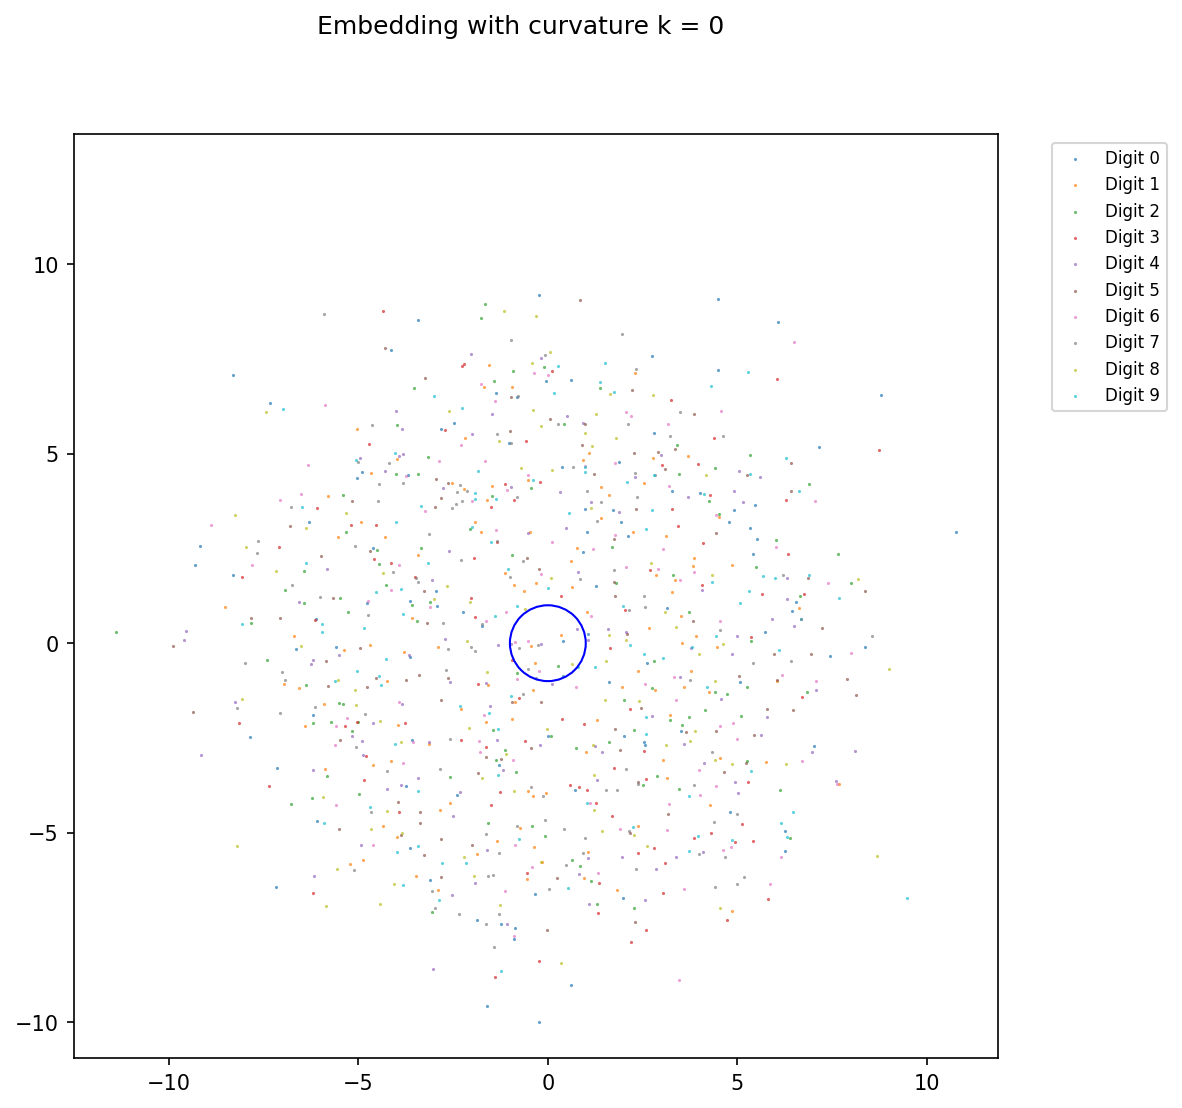
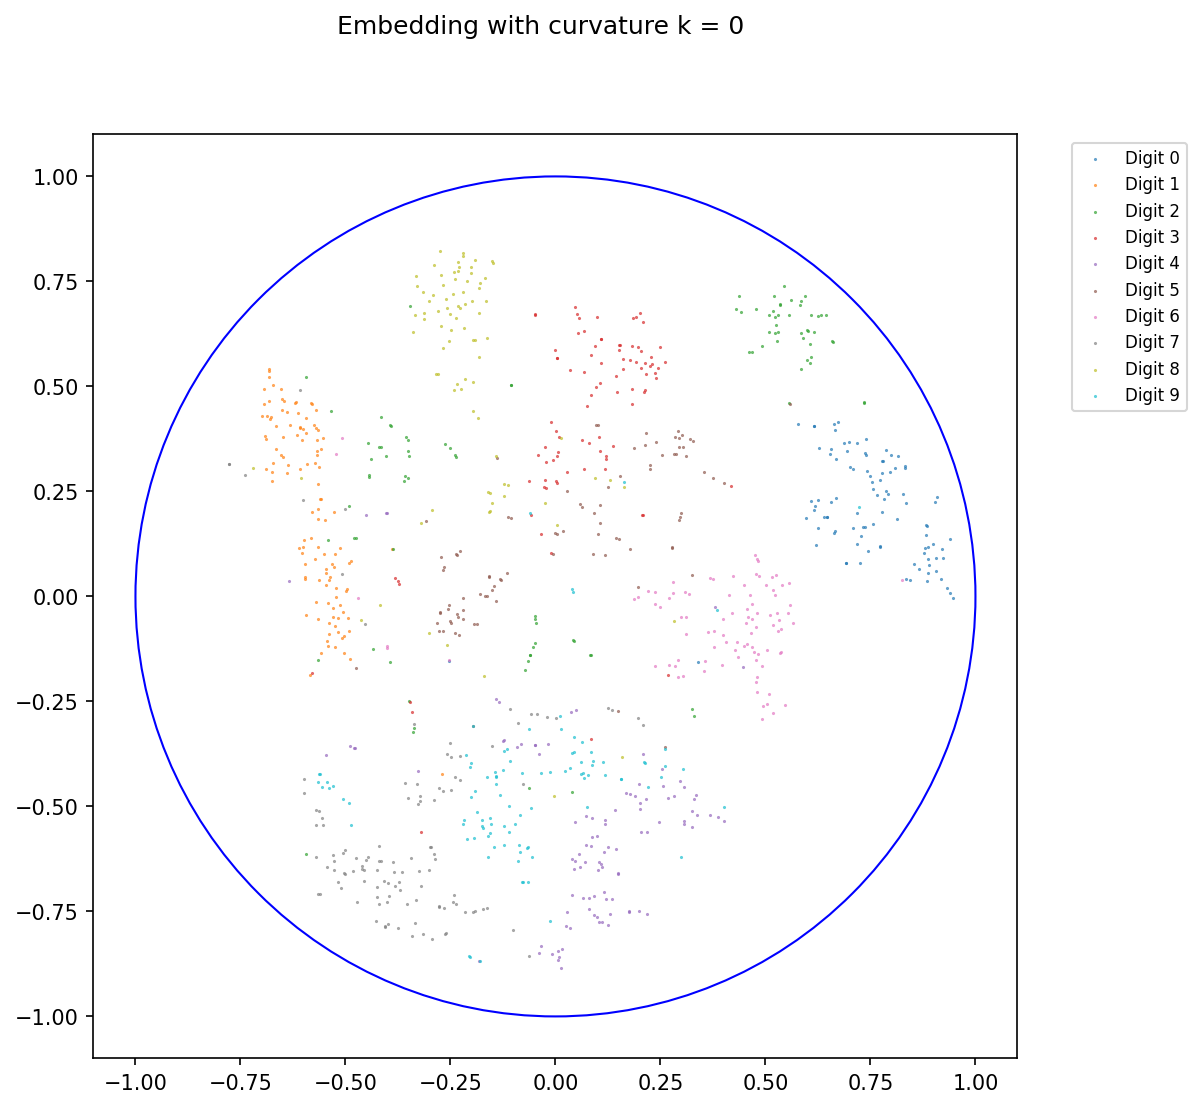
better spherical projections (#8)
* add spherical projection types, rescale euclidian

* Fix stashing conflict

* update plots

diff --git a/src/visualisation.py b/src/visualisation.py
@@ -4,7 +4,12 @@ from matplotlib.patches import Circle
 
 
 def project_to_2d(
-    X: np.ndarray, k: float, i: int = 0, j: int = 1, pole_axis: int | None = None
+    X: np.ndarray,
+    k: float,
+    i: int = 0,
+    j: int = 1,
+    pole_axis: int | None = None,
+    projection: str = "stereographic",
 ) -> tuple[np.ndarray, np.ndarray]:
     """
     Project F-dimensional constant-curvature points onto 2D using two coordinates.
@@ -19,34 +24,142 @@ def project_to_2d(
         Curvature. >0 spherical, 0 Euclidean, <0 hyperbolic.
     pole_axis : int or None
         For spherical stereographic projection: the coordinate chosen as the projection pole.
-        If None, defaults to the last axis (F-1).
+        If None, defaults to the first axis (0) for spherical.
+    projection : str
+        Projection method for spherical embeddings (k > 0). Options:
+        - "stereographic": Conformal projection (default)
+        - "azimuthal_equidistant": Preserves distances from center point
+        - "orthographic": Globe-like view (shows one hemisphere)
+        - "direct": Simply use spatial coordinates (simplest, bounded by radius)
+        Ignored for k <= 0.
 
     Returns
     -------
     (x, y) : array
-        2D projected coordinates.
+        2D projected coordinates, scaled to fit within the unit circle.
+
+    Notes
+    -----
+    For k > 0 (spherical): Multiple projection methods available.
+        - Stereographic: Conformal but distorts distances near pole
+        - Azimuthal equidistant: Preserves radial distances from center
+        - Orthographic: Natural globe view, may hide back hemisphere
+        - Direct: Just uses spatial coordinates, simplest option
+
+    For k = 0 (Euclidean): Directly uses two coordinates, rescaled to fit within the
+        unit circle.
+
+    For k < 0 (hyperbolic): Uses projection from hyperboloid to Poincaré disk, which
+        naturally maps to the unit disk.
     """
 
     if k > 0:
-        # Spherical stereographic
+        # Spherical projections
+        # Points live on sphere of radius r = 1/sqrt(k) in R^(d+1)
         r = 1.0 / np.sqrt(k)  # sphere radius
-        if pole_axis is None:
-            pole_axis = 0
-        z = X[:, pole_axis]  # coord used as pole
-        denom = r - z
-        # Avoid numerical blowups:
-        denom = np.where(np.abs(denom) < 1e-12, 1e-12, denom)
-        scale = r / denom
 
-        return scale * X[:, i + 1], scale * X[:, j + 1]
+        if projection == "stereographic":
+            # Stereographic projection: conformal, maps to infinite plane
+            if pole_axis is None:
+                pole_axis = 0
+            z = X[:, pole_axis]  # coord used as pole
+            denom = r - z
+            # Avoid numerical blowups:
+            denom = np.where(np.abs(denom) < 1e-12, 1e-12, denom)
+            scale = r / denom
+
+            x_proj = scale * X[:, i + 1]
+            y_proj = scale * X[:, j + 1]
+
+            # Rescale to fit in unit circle
+            max_dist = np.sqrt(x_proj**2 + y_proj**2).max()
+            if max_dist > 0:
+                scale_factor = 0.95 / max_dist
+                x_proj *= scale_factor
+                y_proj *= scale_factor
+
+        elif projection == "azimuthal_equidistant":
+            # Azimuthal equidistant: preserves distances from center point
+            # Center at "south pole" (x_0 = -r)
+            if pole_axis is None:
+                pole_axis = 0
+
+            # Angular distance from south pole
+            x0 = X[:, pole_axis]
+            theta = np.arccos(np.clip(-x0 / r, -1.0, 1.0))  # angle from south pole
+
+            # Get spatial coordinates for azimuthal angle
+            spatial_i = X[:, i + 1] if i + 1 != pole_axis else X[:, i + 2 if i + 2 < X.shape[1] else 1]
+            spatial_j = X[:, j + 1] if j + 1 != pole_axis else X[:, j + 2 if j + 2 < X.shape[1] else 1]
+
+            phi = np.arctan2(spatial_j, spatial_i)
+
+            # Project: radius is proportional to angular distance
+            # Maximum theta is π (north pole), so max radius is πr
+            # Scale to fit in unit circle
+            scale_factor = 0.95 / (np.pi * r)
+            x_proj = theta * np.cos(phi) * scale_factor * r
+            y_proj = theta * np.sin(phi) * scale_factor * r
+
+        elif projection == "orthographic":
+            # Orthographic: globe-like view, shows one hemisphere
+            # Simply use two spatial coordinates, points naturally bounded by r
+            x_proj = X[:, i + 1]
+            y_proj = X[:, j + 1]
+
+            # Optionally fade out points on back hemisphere
+            # (where x_pole_axis is positive, assuming viewing from negative side)
+            if pole_axis is None:
+                pole_axis = 0
+
+            # Scale to fit in unit circle
+            max_dist = np.sqrt(x_proj**2 + y_proj**2).max()
+            if max_dist > 0:
+                scale_factor = 0.95 / max_dist
+                x_proj *= scale_factor
+                y_proj *= scale_factor
+
+        elif projection == "direct":
+            # Direct spatial coordinates: simplest option, naturally bounded
+            # Just use two spatial coordinates directly
+            x_proj = X[:, i + 1]
+            y_proj = X[:, j + 1]
+
+            # Points on sphere of radius r satisfy: x_0^2 + x_1^2 + ... = r^2
+            # So each coordinate is bounded by [-r, r]
+            # Scale to unit circle
+            max_dist = np.sqrt(x_proj**2 + y_proj**2).max()
+            if max_dist > 0:
+                scale_factor = 0.95 / max_dist
+                x_proj *= scale_factor
+                y_proj *= scale_factor
+
+        else:
+            raise ValueError(
+                f"Unknown projection '{projection}'. "
+                f"Choose from: stereographic, azimuthal_equidistant, orthographic, direct"
+            )
+
+        return x_proj, y_proj
 
     elif k == 0:
-        # Euclidean projection
-        return X[:, i].astype(float), X[:, j].astype(float)
+        # Euclidean projection: just take two coordinates
+        x_proj = X[:, i].astype(float)
+        y_proj = X[:, j].astype(float)
+
+        # Rescale to fit in unit circle
+        max_dist = np.sqrt(x_proj**2 + y_proj**2).max()
+        if max_dist > 0:
+            scale_factor = 0.95 / max_dist  # 0.95 to leave small margin
+            x_proj *= scale_factor
+            y_proj *= scale_factor
+
+        return x_proj, y_proj
 
     else:
         # Hyperbolic (hyperboloid -> Poincaré disk)
         # X[:,0] must be the time-like coordinate
+        # This projection naturally maps to the unit disk
         r = 1.0 / np.sqrt(-k)
         x0 = X[:, 0]
 

diff --git a/main.py b/main.py
@@ -81,6 +81,10 @@ def main():
     learning_rates = hyperparam_config["learning_rates"]
     n_neighbors = evaluation_config["n_neighbors"]
 
+    # Get visualization settings
+    viz_config = config.get("visualization", {})
+    spherical_projection = viz_config.get("spherical_projection", "direct")
+
     for k in curvatures:
         print(f"\n{'=' * 60}")
         print(f"Training t-SNE embedding with curvature k = {k}")
@@ -126,10 +130,17 @@ def main():
         print(f"Continuity: {continuity_score:.4f}")
 
         # Visualize the first two dimensions
-        x_proj, y_proj = project_to_2d(embeddings, k=k)
+        x_proj, y_proj = project_to_2d(
+            embeddings,
+            k=k,
+            projection=spherical_projection if k > 0 else "stereographic",
+        )
         y_labels = y.detach().cpu().numpy() if hasattr(y, "detach") else y
         fig = default_plot(x_proj, y_proj, labels=y_labels)
-        fig.suptitle(f"Embedding with curvature k = {k}")
+
+        # Add projection info to title for spherical embeddings
+        proj_info = f" ({spherical_projection} projection)" if k > 0 else ""
+        fig.suptitle(f"Embedding with curvature k = {k}{proj_info}")
         fig.savefig(f"plots/plot_{k}.png", dpi=150, bbox_inches="tight")
         print(f"Saved visualization to plots/plot_{k}.png")
 
